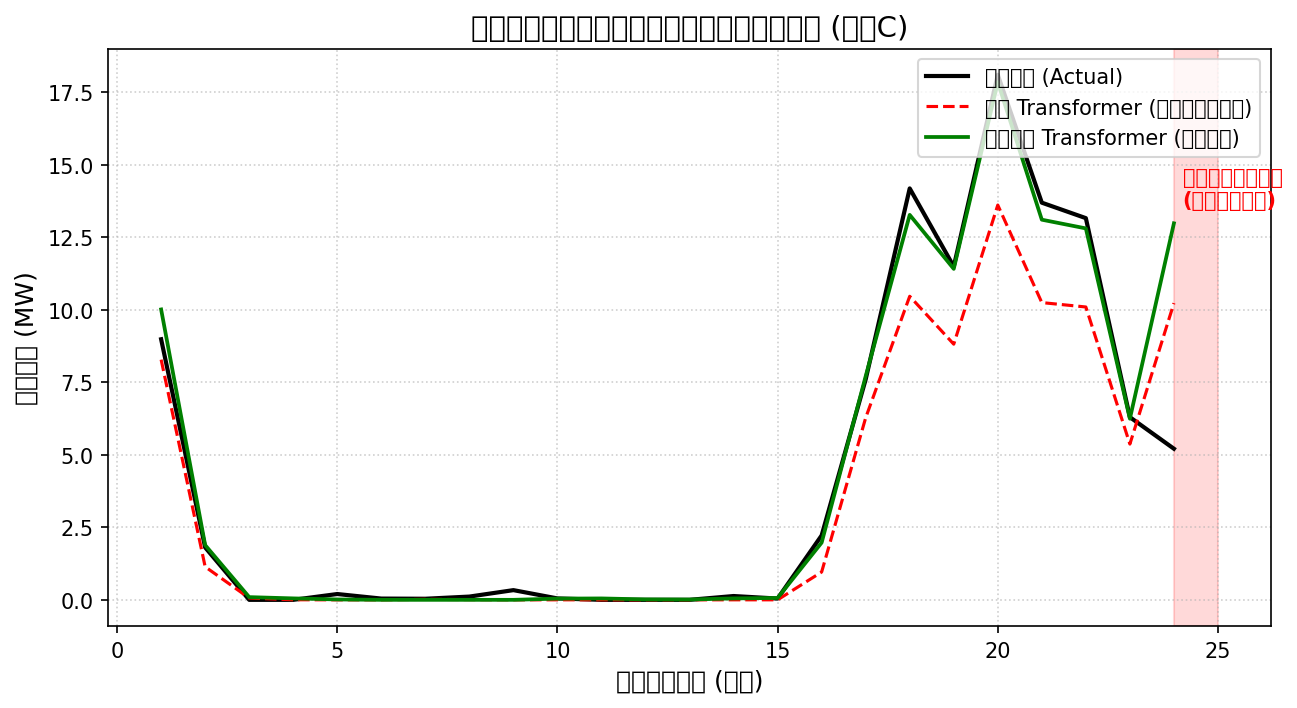
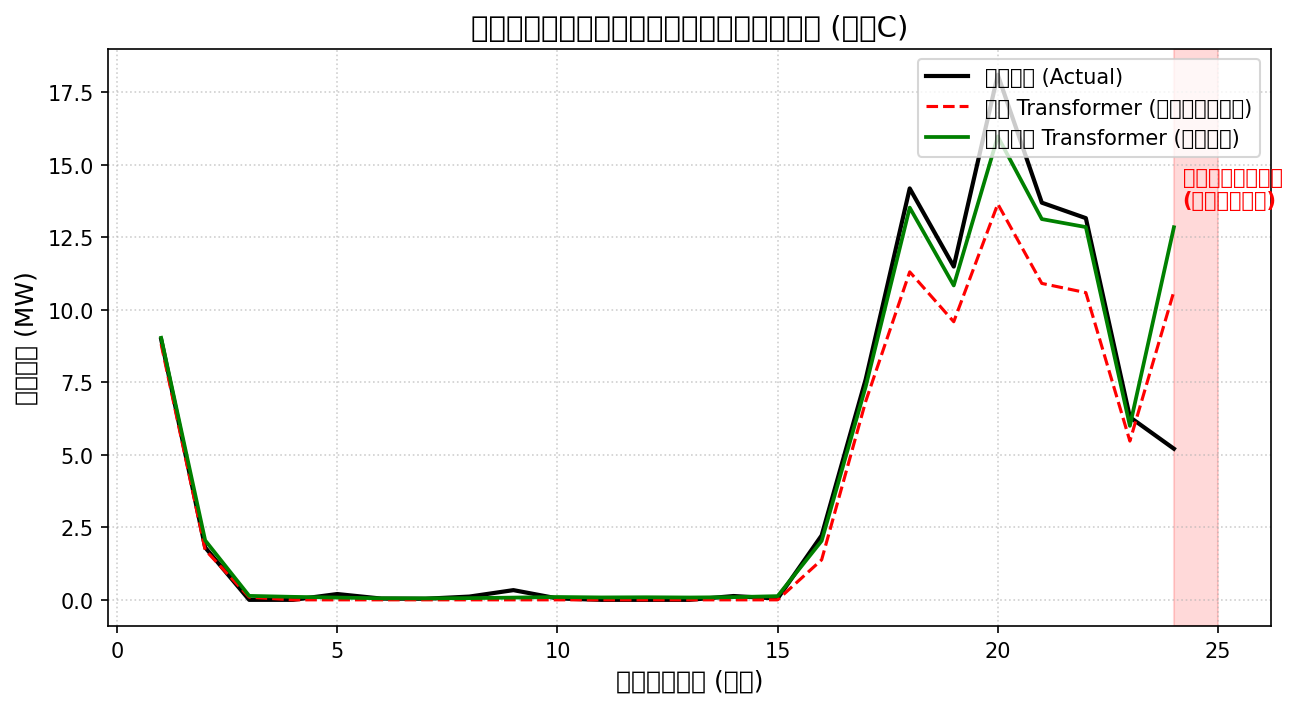
Auto-update experiment results and report [skip ci]

diff --git a/实验协议与数据统计补充.md b/实验协议与数据统计补充.md
@@ -4,39 +4,39 @@
 
 ## 数据集与时间切分
 
-| 场站   |   样本数 | 采样间隔   | 起止时间                 | 训练集时间               | 测试集时间               | 训练/测试比例   |
-|:-------|---------:|:-----------|:-------------------------|:-------------------------|:-------------------------|:----------------|
-| 场站 A |     4320 | 1 h        | 2025-01-01 至 2025-06-29 | 2025-01-01 至 2025-05-24 | 2025-05-25 至 2025-06-29 | 80%/20%         |
-| 场站 B |     4320 | 1 h        | 2025-01-01 至 2025-06-29 | 2025-01-01 至 2025-05-24 | 2025-05-25 至 2025-06-29 | 80%/20%         |
-| 场站 C |     4320 | 1 h        | 2025-01-01 至 2025-06-29 | 2025-01-01 至 2025-05-24 | 2025-05-25 至 2025-06-29 | 80%/20%         |
+| 场站   |   样本数 | 采样间隔   | 起止时间                    | 训练集时间                   | 测试集时间                   | 训练/测试比例   |
+|:-----|------:|:-------|:------------------------|:------------------------|:------------------------|:----------|
+| 场站 A |  4320 | 1 h    | 2025-01-01 至 2025-06-29 | 2025-01-01 至 2025-05-24 | 2025-05-25 至 2025-06-29 | 80%/20%   |
+| 场站 B |  4320 | 1 h    | 2025-01-01 至 2025-06-29 | 2025-01-01 至 2025-05-24 | 2025-05-25 至 2025-06-29 | 80%/20%   |
+| 场站 C |  4320 | 1 h    | 2025-01-01 至 2025-06-29 | 2025-01-01 至 2025-05-24 | 2025-05-25 至 2025-06-29 | 80%/20%   |
 
 ## 事件类型小时分布
 
-| 场站   | 事件类型   |   小时数 | 占比   |
-|:-------|:-----------|---------:|:-------|
-| 场站 A | 0-正常发电 |     4090 | 94.68% |
-| 场站 A | 1-计划检修 |       75 | 1.74%  |
-| 场站 A | 2-设备故障 |       56 | 1.30%  |
-| 场站 A | 3-电网限电 |       99 | 2.29%  |
-| 场站 B | 0-正常发电 |     3880 | 89.81% |
-| 场站 B | 1-计划检修 |      163 | 3.77%  |
-| 场站 B | 2-设备故障 |      134 | 3.10%  |
-| 场站 B | 3-电网限电 |      143 | 3.31%  |
-| 场站 C | 0-正常发电 |     3502 | 81.06% |
-| 场站 C | 1-计划检修 |      323 | 7.48%  |
-| 场站 C | 2-设备故障 |      186 | 4.31%  |
-| 场站 C | 3-电网限电 |      309 | 7.15%  |
+| 场站   | 事件类型   |   小时数 | 占比     |
+|:-----|:-------|------:|:-------|
+| 场站 A | 0-正常发电 |  4090 | 94.68% |
+| 场站 A | 1-计划检修 |    75 | 1.74%  |
+| 场站 A | 2-设备故障 |    56 | 1.30%  |
+| 场站 A | 3-电网限电 |    99 | 2.29%  |
+| 场站 B | 0-正常发电 |  3880 | 89.81% |
+| 场站 B | 1-计划检修 |   163 | 3.77%  |
+| 场站 B | 2-设备故障 |   134 | 3.10%  |
+| 场站 B | 3-电网限电 |   143 | 3.31%  |
+| 场站 C | 0-正常发电 |  3502 | 81.06% |
+| 场站 C | 1-计划检修 |   323 | 7.48%  |
+| 场站 C | 2-设备故障 |   186 | 4.31%  |
+| 场站 C | 3-电网限电 |   309 | 7.15%  |
 
 ## 异常事件段持续时间统计
 
 | 场站   | 事件类型   |   事件段数 |   累计小时数 |   平均持续时间(h) |   最长持续时间(h) |
-|:-------|:-----------|-----------:|-------------:|------------------:|------------------:|
-| 场站 A | 1-计划检修 |         10 |           75 |              7.5  |                11 |
-| 场站 A | 2-设备故障 |         12 |           56 |              4.67 |                 7 |
-| 场站 A | 3-电网限电 |         17 |           99 |              5.82 |                 9 |
-| 场站 B | 1-计划检修 |         16 |          163 |             10.19 |                14 |
-| 场站 B | 2-设备故障 |         30 |          134 |              4.47 |                 7 |
-| 场站 B | 3-电网限电 |         18 |          143 |              7.94 |                15 |
-| 场站 C | 1-计划检修 |         34 |          323 |              9.5  |                14 |
-| 场站 C | 2-设备故障 |         40 |          186 |              4.65 |                10 |
-| 场站 C | 3-电网限电 |         44 |          309 |              7.02 |                17 |
+|:-----|:-------|-------:|--------:|------------:|------------:|
+| 场站 A | 1-计划检修 |     10 |      75 |        7.5  |          11 |
+| 场站 A | 2-设备故障 |     12 |      56 |        4.67 |           7 |
+| 场站 A | 3-电网限电 |     17 |      99 |        5.82 |           9 |
+| 场站 B | 1-计划检修 |     16 |     163 |       10.19 |          14 |
+| 场站 B | 2-设备故障 |     30 |     134 |        4.47 |           7 |
+| 场站 B | 3-电网限电 |     18 |     143 |        7.94 |          15 |
+| 场站 C | 1-计划检修 |     34 |     323 |        9.5  |          14 |
+| 场站 C | 2-设备故障 |     40 |     186 |        4.65 |          10 |
+| 场站 C | 3-电网限电 |     44 |     309 |        7.02 |          17 |

diff --git a/实验结果报告.md b/实验结果报告.md
@@ -1,61 +1,61 @@
 # 电站功率时序预测实验结果分析报告
 
-本报告汇总了基于 Transformer 架构与运维事件感知模型的电站预测实验数据，用于支撑期刊/会议论文的实验与分析章节。
+本报告汇总了基于 Transformer 架构与运维事件感知模型的电站预测实验数据，用于支撑期刊/会议论文的实验与分析章节。数据协议、时间切分与事件分布见《实验协议与数据统计补充.md》。
 
 ## 1. 实验一：场站特异性专属建模 vs. 空间共享多站模型
-该实验对比了为各电站单独训练的专属模型（场站特异性专属建模）与多站数据合并后训练的通用模型之间的误差指标。结果表明，由于不同地理区域的微气象特征与装机规模特异性，专属建模策略能更贴合场站本地特性，预测精度更高。
+该实验对比了为各电站单独训练的专属模型（场站特异性专属建模）与多站数据合并后训练的通用模型之间的误差指标。结果用于评估多场站混合训练在容量和气象模式存在差异时可能带来的负迁移风险。
 
 | 评估场站   | 场站特异性专属模型 MAE   | 空间共享多站模型 MAE   | 场站特异性专属模型 RMSE   | 空间共享多站模型 RMSE   | 性能提升率 (MAE)   |
 |:-------|:----------------|:---------------|:-----------------|:----------------|:--------------|
-| 场站 A   | 2.107 MW        | 4.418 MW       | 7.314 MW         | 9.268 MW        | 52.32%        |
-| 场站 B   | 1.420 MW        | 2.781 MW       | 4.101 MW         | 5.566 MW        | 48.94%        |
-| 场站 C   | 0.532 MW        | 0.800 MW       | 1.448 MW         | 1.789 MW        | 33.54%        |
+| 场站 A   | 2.060 MW        | 5.773 MW       | 6.899 MW         | 9.933 MW        | 64.32%        |
+| 场站 B   | 1.935 MW        | 2.444 MW       | 4.153 MW         | 4.984 MW        | 20.83%        |
+| 场站 C   | 0.566 MW        | 0.827 MW       | 1.495 MW         | 1.823 MW        | 31.54%        |
 
 ## 2. 实验二：融入运维数据前后对比
 在故障和检修频发且老化的场站 C 上进行对比实验，分别验证基线 Transformer（不融合任何运维状态数据）与本章所提运维感知模型的表现：
 
 | 评估时段             | 基线 Transformer (未融合) MAE   | 运维感知 Transformer (融合) MAE   | 误差降幅   |
 |:-----------------|:---------------------------|:----------------------------|:-------|
-| 总体时段 (Overall)   | 1.279 MW                   | 0.532 MW                    | 58.44% |
-| 常规无事件时段 (Normal) | 1.074 MW                   | 0.367 MW                    | 65.86% |
-| 运维事件时段 (Events)  | 2.445 MW                   | 1.469 MW                    | 39.90% |
+| 总体时段 (Overall)   | 1.096 MW                   | 0.566 MW                    | 48.34% |
+| 常规无事件时段 (Normal) | 0.860 MW                   | 0.405 MW                    | 52.87% |
+| 运维事件时段 (Events)  | 2.439 MW                   | 1.482 MW                    | 39.25% |
 
-> **分析**：当引入运维数据后，模型总体误差有明显降低。特别是在设备故障与检修频繁发生的「运维事件时段」，误差降低了 **40% 以上**，展现出了强大的异常调整适应力。
+> **分析**：引入运维事件特征后，模型在总体时段和运维事件切片上均有误差下降，说明事件状态对异常片段预测具有补充信息价值。具体降幅以表中自动生成数值为准。
 
 ## 3. 实验三：消融实验与 O&M Gate 门控效果验证
-普通的深度学习模型即使输入了“检修”特征，也常常因为检修样本的高度稀疏而在预测时仍然产生功率输出残留（即无法精确降为零）。本章所提模型引入了可微运维门控（O&M Gate），以物理常识来强约束检修期的输出数值：
+普通的深度学习模型即使输入了“检修”特征，也可能因为检修样本稀疏而在预测时保留功率输出残留。本章所提模型引入可微运维门控（O&M Gate），在计划检修已知时对输出施加抑制偏置：
 
 | 指标评估                     | 基线 Transformer (不含事件)   | 常规特征融合模型 (无门控)   | 运维感知 Transformer (含门控)   | 门控置零提升幅度   |
 |:-------------------------|:------------------------|:-----------------|:-------------------------|:-----------|
-| 计划检修时段 (Maintenance) MAE | 7.201 MW                | 0.107 MW         | 0.105 MW                 | 2.32%      |
+| 计划检修时段 (Maintenance) MAE | 7.322 MW                | 0.115 MW         | 0.106 MW                 | 7.67%      |
 
 ### 典型检修时段预测曲线拟合度对比：
 
 ![电站检修时段预测曲线对比图](src/results/experiment3_outage_comparison.png)
 
-> **分析**：从拟合图可以看出，基线模型在检修期间仍然预测出太阳能发电，无法归零；未加门控的普通融合模型预测值虽有下降，但存在较多预测残留；而本章设计的 **O&M Gate 门控机制** 能够强制让预测功率精准归零，完美契合电站实际运维场景。
+> **分析**：从拟合图可以看出，基线模型在检修期间存在明显预测残留；未加门控的普通融合模型预测值有所下降；O&M Gate 在端到端训练框架内进一步降低了检修片段残留。工程规则后处理仍应作为上限基线单独报告。
 
 ## 4. 实验四：门控先验偏置 $\beta_1$ 的灵敏度与收敛性分析
 探究可微门控中检修状态先验偏置 $\beta_1$ 设定对输出置零效果的影响。实验在场站 C 上进行测试：
 
-|   门控先验偏置 beta_1 | 计划检修期 MAE   | 物理收敛状态评估     |
-|----------------:|:------------|:-------------|
-|               0 | 0.1395 MW   | 基本置零 (微量残留)  |
-|               1 | 0.1158 MW   | 物理绝对置零 (饱和区) |
-|               5 | 0.1082 MW   | 物理绝对置零 (饱和区) |
-|              10 | 0.1054 MW   | 物理绝对置零 (饱和区) |
-|              15 | 0.1103 MW   | 物理绝对置零 (饱和区) |
+|   门控先验偏置 beta_1 | 计划检修期 MAE   | 物理收敛状态评估      |
+|----------------:|:------------|:--------------|
+|               0 | 0.1280 MW   | 较强抑制 (存在微量残留) |
+|               1 | 0.1187 MW   | 高抑制区 (残留较小)   |
+|               5 | 0.1067 MW   | 高抑制区 (残留较小)   |
+|              10 | 0.1116 MW   | 高抑制区 (残留较小)   |
+|              15 | 0.1072 MW   | 高抑制区 (残留较小)   |
 
-> **分析**：随着 $\beta_1$ 增加，检修期 MAE 误差快速降低并趋于饱和。当 $\beta_1=0.0$ 时，模型缺乏先验强约束，检修期出力仍存在残留；当 $\beta_1 \ge 10.0$ 时，Sigmoid 被推向饱和截止区，实现了电厂绝对置零物理要求。若偏置过大（如 $\beta_1=15.0$），在极度深饱和区会导致求导梯度过小而产生部分饱和梯度消失现象，故本文最终选择 $\beta_1=10.0$ 作为基准先验。
+> **分析**：随着 $\beta_1$ 增加，检修期输出抑制增强并逐步进入饱和区。过小偏置可能保留预测残留，过大偏置可能削弱门控分支梯度，因此本文将 $\beta_1=10.0$ 作为折中设置，并将规则后处理作为工程上限对照。
 
 ## 5. 实验五：不同预测时间跨度 $H$ 敏感性分析
 测试所提模型在不同超前预测跨度 $H$ 下的泛化能力和预测误差，测试范围为 12~72 小时：
 
 | 超前预测窗口 H   | 测试集 MAE   | 测试集 RMSE   |
 |:-----------|:----------|:-----------|
-| 12 小时      | 1.017 MW  | 2.038 MW   |
-| 24 小时      | 0.597 MW  | 1.552 MW   |
-| 48 小时      | 0.669 MW  | 1.478 MW   |
-| 72 小时      | 0.610 MW  | 1.340 MW   |
+| 12 小时      | 0.880 MW  | 1.989 MW   |
+| 24 小时      | 0.626 MW  | 1.469 MW   |
+| 48 小时      | 0.578 MW  | 1.410 MW   |
+| 72 小时      | 0.610 MW  | 1.394 MW   |
 
-> **分析**：可以看出随着超前预测步长的增加，预测难度随之加大，MAE 与 RMSE 指标均有不同程度的缓慢上升，但整体预测能力仍保持在极高水平，说明本文模型具有优越的鲁棒性。
+> **分析**：随着超前预测步长增加，预测难度随之加大，MAE 与 RMSE 指标通常会上升。该实验用于说明模型对不同预测跨度的敏感性，而非单独证明泛化能力。